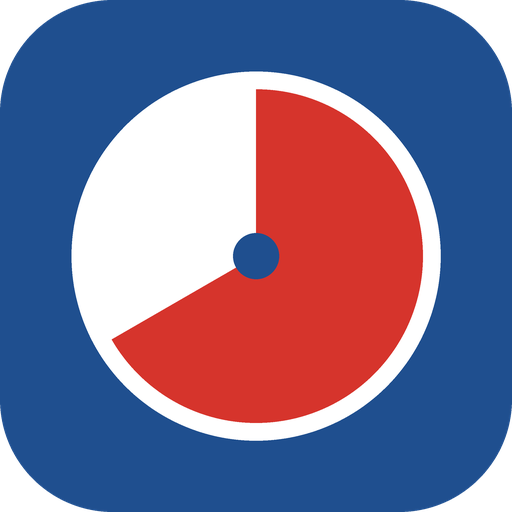
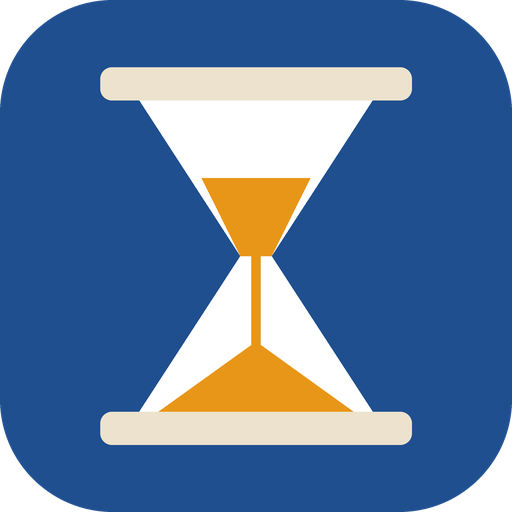
feat: icône en sablier et nom Sablio pour l'application installée
Les icônes (onglet, application, maskable) dessinent un sablier : le
sable qui reste en haut, celui qui est tombé en bas. Le manifeste et la
fenêtre Electron s'appellent désormais Sablio (même identifiant :
l'application installée se met à jour).

diff --git a/src/main.js b/src/main.js
@@ -44,7 +44,7 @@ function creerFenetre() {
     minWidth: 320,
     minHeight: 240,
     show: false,
-    title: 'MyDevoirs – prototype',
+    title: 'Sablio – prototype',
     backgroundColor: nativeTheme.shouldUseDarkColors ? '#141416' : '#f6f4ef',
     webPreferences: {
       preload: path.join(__dirname, 'preload.js'),

diff --git a/src/sw.js b/src/sw.js
@@ -4,7 +4,7 @@
 // tout de suite pendant la mise au point), le cache si le réseau ne répond pas.
 // L'application définitive mettra plutôt tout en cache d'un bloc, par version.
 
-const CACHE = 'mydevoirs-prototype-8';
+const CACHE = 'mydevoirs-prototype-9';
 const DELAI_RESEAU = 3000;
 const FICHIERS = [
   './',

diff --git a/scripts/icones.py b/scripts/icones.py
@@ -1,4 +1,4 @@
-"""Dessine les icônes du prototype : un minuteur dont le temps restant est en rouge.
+"""Dessine les icônes de Sablio : un sablier, le temps qui s'écoule et se voit.
 
 Usage : python3 scripts/icones.py   (il faut Pillow)
 """
@@ -8,39 +8,66 @@ from PIL import Image, ImageDraw
 
 SORTIE = Path(__file__).resolve().parent.parent / "src" / "icones"
 FOND = (31, 79, 143)
-CADRAN = (255, 255, 255)
-RESTE = (214, 52, 44)
+VERRE = (255, 255, 255)
+CADRE = (236, 226, 205)
+SABLE = (232, 150, 24)
 SUR = 4  # suréchantillonnage, pour des bords lisses
 
 
-def dessiner(taille: int, marge: float, arrondi: float) -> Image.Image:
-    """`marge` : part de l'icône laissée autour du cadran (zone sûre des icônes « maskable »)."""
+def dessiner(taille: int, marge: float, arrondi: float, filet: bool = True) -> Image.Image:
+    """`marge` : part de l'icône laissée autour du sablier (zone sûre des icônes « maskable »)."""
     t = taille * SUR
     image = Image.new("RGBA", (t, t), (0, 0, 0, 0))
     d = ImageDraw.Draw(image)
     d.rounded_rectangle((0, 0, t - 1, t - 1), radius=int(t * arrondi), fill=FOND)
-    m = int(t * marge)
-    boite = (m, m, t - m, t - m)
-    d.ellipse(boite, fill=CADRAN)
-    # Le temps qui reste : un secteur qui part de midi, dans le sens des aiguilles.
-    interieur = int(t * 0.035)
-    d.pieslice(
-        (m + interieur, m + interieur, t - m - interieur, t - m - interieur),
-        start=-90, end=150, fill=RESTE,
-    )
-    c = t // 2
-    r = int(t * 0.045)
-    d.ellipse((c - r, c - r, c + r, c + r), fill=FOND)
+
+    # Repère du sablier : un carré centré, coordonnées de 0 à 1.
+    m = t * marge
+    cote = t - 2 * m
+
+    def p(x: float, y: float) -> tuple[float, float]:
+        return (m + x * cote, m + y * cote)
+
+    def largeur(y: float) -> float:
+        """Demi-largeur intérieure du verre à la hauteur y (étranglement au milieu)."""
+        haut, milieu, bas = 0.10, 0.5, 0.90
+        large, etroit = 0.30, 0.04
+        if y <= milieu:
+            return large - (y - haut) / (milieu - haut) * (large - etroit)
+        return etroit + (y - milieu) / (bas - milieu) * (large - etroit)
+
+    # Le verre : deux triangles qui se touchent par la pointe.
+    d.polygon([p(0.5 - largeur(0.10), 0.10), p(0.5 + largeur(0.10), 0.10),
+               p(0.5 + largeur(0.5), 0.5), p(0.5 - largeur(0.5), 0.5)], fill=VERRE)
+    d.polygon([p(0.5 - largeur(0.5), 0.5), p(0.5 + largeur(0.5), 0.5),
+               p(0.5 + largeur(0.90), 0.90), p(0.5 - largeur(0.90), 0.90)], fill=VERRE)
+
+    # Le sable qui reste en haut (le bas de l'ampoule supérieure)…
+    niveau = 0.30
+    d.polygon([p(0.5 - largeur(niveau) + 0.03, niveau), p(0.5 + largeur(niveau) - 0.03, niveau),
+               p(0.5 + largeur(0.5), 0.5), p(0.5 - largeur(0.5), 0.5)], fill=SABLE)
+    # … le filet qui coule (invisible en très petit, on l'omet)…
+    if filet:
+        d.rectangle((*p(0.488, 0.5), *p(0.512, 0.78)), fill=SABLE)
+    # … et le tas qui grandit en bas.
+    d.polygon([p(0.5 - largeur(0.90) + 0.05, 0.90), p(0.5 + largeur(0.90) - 0.05, 0.90), p(0.5, 0.72)], fill=SABLE)
+
+    # Les deux montants du cadre, en haut et en bas.
+    epaisseur = 0.085
+    rayon = int(cote * 0.03)
+    d.rounded_rectangle((*p(0.10, 0.10 - epaisseur), *p(0.90, 0.10)), radius=rayon, fill=CADRE)
+    d.rounded_rectangle((*p(0.10, 0.90), *p(0.90, 0.90 + epaisseur)), radius=rayon, fill=CADRE)
     return image.resize((taille, taille), Image.LANCZOS)
 
 
 def main() -> None:
     SORTIE.mkdir(parents=True, exist_ok=True)
     for taille in (192, 512):
-        dessiner(taille, marge=0.14, arrondi=0.22).save(SORTIE / f"icone-{taille}.png")
+        dessiner(taille, marge=0.12, arrondi=0.22).save(SORTIE / f"icone-{taille}.png")
     # « maskable » : le système peut rogner l'icône en cercle, on garde de la marge.
-    dessiner(512, marge=0.24, arrondi=0).save(SORTIE / "icone-maskable-512.png")
-    dessiner(32, marge=0.06, arrondi=0.22).save(SORTIE / "favicon.png")
+    dessiner(512, marge=0.22, arrondi=0).save(SORTIE / "icone-maskable-512.png")
+    # En 32 px, l'onglet : le sablier occupe presque tout, sans le filet.
+    dessiner(32, marge=0.04, arrondi=0.22, filet=False).save(SORTIE / "favicon.png")
     print(f"Icônes écrites dans {SORTIE}")
 
 

diff --git a/README.md b/README.md
@@ -143,4 +143,4 @@ L'exécutable n'est **pas signé** : le Contrôle intelligent des applications d
 | `src/manifest.json`, `src/icones/` | Rendent la page installable (nom, icônes, fenêtre dédiée) |
 | `src/sw.js` | *Service worker* : hors-ligne, retour à l'application au clic sur une notification |
 | `scripts/preparer-windows.mjs` | Assemble la version Windows portable depuis Linux |
-| `scripts/icones.py` | Dessine les icônes (Pillow) |
+| `scripts/icones.py` | Dessine les icônes : un sablier (Pillow) |
